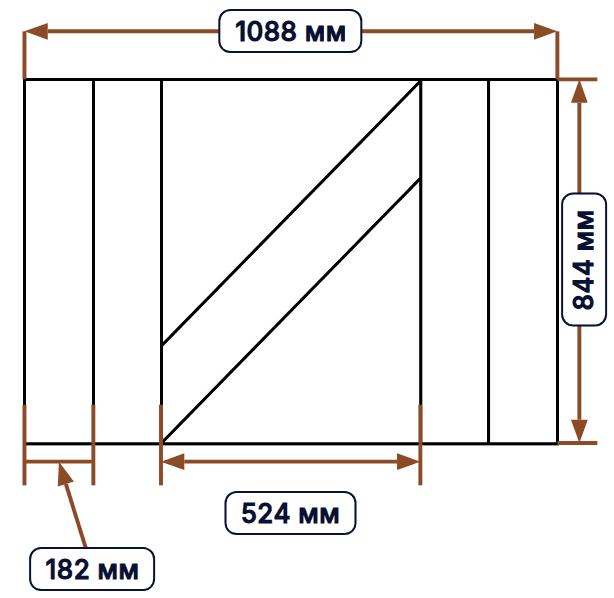
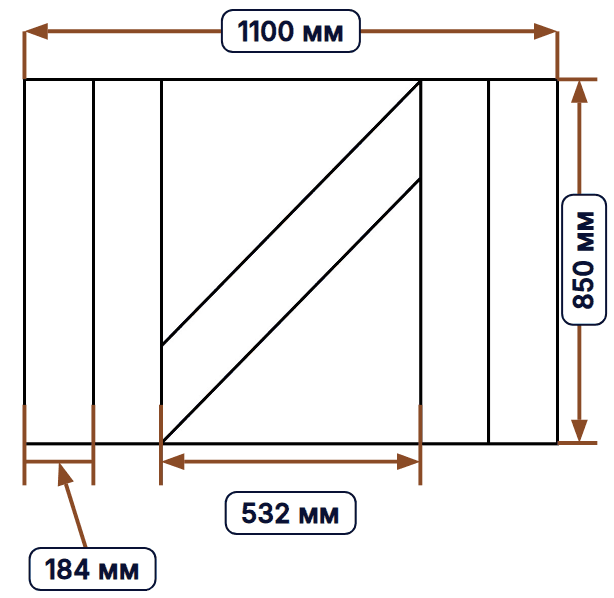
Ролик на главной: толщины 25, 40, 50, 100 и толще во всех примерах (пересчитано), третий пример I-3; в сравнении вручную - около 30 минут
Claude-Session: https://claude.ai/code/session_0168e5zpHgBWfiuPEqtVvNNU

diff --git a/frontend/public/js/landing.js b/frontend/public/js/landing.js
@@ -32,21 +32,19 @@ openSettingsSection = section => { location.href = 'gosts.html#' + section; };
 const LPD_SCENES = [
   {
     type: 'I-1', short: 'I-1', dims: [1000, 800, 600], mass: 300,
-    thick: [22, 25],
     opts: [['Полоз нужен', true, false], ['Округлить ширину досок', false, false], ['Добавить раскосины', false, true], ['X-образные раскосины', false, false]],
-    sum: ['1088 × 888 × 716', '0.130', '90.8', '2.2'],
+    sum: ['1100 × 900 × 725', '0.148', '103.4', '2.5'],
     image: '/images/box_i1.jpg',
     nodes: [
-      ['Дно', [['Полоз', 50, 100, 844, 2], ['Доска дна', 22, 100, 1088, 6], ['Доска дна (дополнительная) 1', 22, 81, 1088, 2], ['Доска дна (дополнительная) 2', 22, 82, 1088, 1], ['Раскосина', 22, 100, 993, 1]]],
-      ['Крышка', [['Планка', 22, 100, 888, 2], ['Доска крышки', 22, 100, 1088, 6], ['Доска крышки (дополнительная) 1', 22, 81, 1088, 2], ['Доска крышки (дополнительная) 2', 22, 82, 1088, 1], ['Раскосина', 22, 100, 1031, 1]]],
-      ['Щит торцевой (2 шт.)', [['Вертикальная планка', 22, 100, 600, 2], ['Горизонтальная планка', 22, 100, 600, 2], ['Доска торцевого щита', 22, 100, 800, 6], ['Раскосина', 22, 100, 566, 1]]],
-      ['Щит боковой (2 шт.)', [['Планка', 22, 100, 694, 2], ['Доска бокового щита', 22, 100, 1088, 6], ['Раскосина', 22, 100, 797, 1]]],
+      ['Дно', [['Полоз', 50, 100, 850, 2], ['Доска дна', 25, 100, 1100, 7], ['Доска дна (дополнительная)', 25, 75, 1100, 2], ['Раскосина', 25, 100, 1003, 1]]],
+      ['Крышка', [['Планка', 25, 100, 900, 2], ['Доска крышки', 25, 100, 1100, 7], ['Доска крышки (дополнительная)', 25, 75, 1100, 2], ['Раскосина', 25, 100, 1045, 1]]],
+      ['Щит торцевой (2 шт.)', [['Вертикальная планка', 25, 100, 600, 2], ['Горизонтальная планка', 25, 100, 600, 2], ['Доска торцевого щита', 25, 100, 800, 6], ['Раскосина', 25, 100, 566, 1]]],
+      ['Щит боковой (2 шт.)', [['Планка', 25, 100, 700, 2], ['Доска бокового щита', 25, 100, 1100, 6], ['Раскосина', 25, 100, 802, 1]]],
     ],
     finish: 'print',
   },
   {
     type: 'II-1', short: 'II-1', dims: [1600, 1000, 900], mass: 800,
-    thick: [25, 40, 50, 100],
     opts: [['Округлить ширину досок', false, true], ['Добавить раскосины', false, false], ['Погрузка авто/электропогрузчиком', false, true], ['Добавить пергамин', false, false]],
     sum: ['1700 × 1100 × 1115', '0.343', '240.4', '5.8'],
     image: '/images/box_ii1.png',
@@ -58,8 +56,26 @@ const LPD_SCENES = [
     ],
     finish: 'pdf',
   },
+  {
+    type: 'I-3', short: 'I-3', dims: [1200, 1000, 800], mass: 1000,
+    opts: [['Округлить ширину досок', false, false], ['X-образные раскосины', false, true], ['Погрузка авто/электропогрузчиком', false, true], ['Добавить ленту обшивки торцов', false, false]],
+    sum: ['1300 × 1100 × 1025', '0.258', '180.5', '4.3'],
+    image: '/images/box.png',
+    nodes: [
+      ['Дно', [['Полоз', 100, 100, 1300, 2], ['Подполозная доска', 50, 100, 900, 2], ['Торцовый брус дна', 50, 100, 1000, 2], ['Доска дна', 25, 100, 1000, 10]]],
+      ['Крышка', [['Планка', 25, 100, 1050, 2], ['Доска крышки', 25, 100, 1300, 9], ['Доска крышки (дополнительная)', 25, 75, 1300, 2], ['Внутренний поперечный брус', 40, 100, 1000, 2]]],
+      ['Щит торцевой (2 шт.)', [['Вертикальная планка', 25, 100, 625, 2], ['Горизонтальная планка', 25, 100, 1000, 2], ['Раскосина', 25, 100, 1015, 1], ['Раскосина (дополнительная)', 25, 100, 458, 2], ['Доска торца', 25, 100, 1000, 6], ['Доска торца (дополнительная)', 25, 75, 1000, 3]]],
+      ['Щит боковой (2 шт.)', [['Вертикальная планка', 25, 100, 892, 2], ['Доска бока', 25, 100, 1300, 6], ['Доска бока (дополнительная)', 25, 75, 1300, 3], ['Раскосина', 25, 100, 1126, 1], ['Раскосина (дополнительная)', 25, 100, 513, 2]]],
+    ],
+    finish: 'print',
+  },
 ];
-const LPD_THICK = [16, 19, 22, 25, 32, 40, 50, 60, 75, 100];
+// Толщины в наличии - во всех примерах одни (по указанию пользователя):
+// 25, 40, 50, 100 и все толще.
+const LPD_PICK = [25, 40, 50, 100, 125, 150, 175, 200, 225, 250];
+const LPD_THICK = [16, 19, 22, 25, 32, 40, 50, 60, 75, 100, 125, 150, 175, 200, 225, 250];
+// Подпись выпадающего списка - как на странице расчёта.
+const lpdPicked = list => `Выбрано (${list.length}): ${list.slice(0, 8).join(', ')} мм${list.length > 8 ? `, ещё ${list.length - 8} знач.` : ''}`;
 const LPD_W = 560, LPD_H = 400; // размер макета; на экране - масштаб по ширине
 
 // Чертёж узла n примера: images/landing/demo-<тип>-<n>.png.
@@ -109,7 +125,7 @@ function lpDemo(){
   fit();
   if(window.ResizeObserver) new ResizeObserver(fit).observe(box); else addEventListener('resize', fit);
 
-  scenes.innerHTML = LPD_SCENES.map((sc, i) => `<button type="button" role="tab" data-i="${i}"><span>Тип ${sc.short} · ${sc.dims.join('×')} мм · ${sc.mass} кг</span><i><u></u></i></button>`).join('');
+  scenes.innerHTML = LPD_SCENES.map((sc, i) => `<button type="button" role="tab" data-i="${i}"><span>Тип ${sc.short} · ${sc.dims.join('×')}</span><i><u></u></i></button>`).join('');
   const sceneBtns = [...scenes.children];
 
   // Прерывание: смена примера кнопкой - текущий сценарий останавливается.
@@ -181,8 +197,8 @@ function lpDemo(){
   const still = (i) => {
     const sc = setup(i);
     ['L', 'W', 'H', 'M'].forEach((k, n) => { q(`[data-f="${k}"] span`).textContent = n < 3 ? sc.dims[n] : sc.mass; });
-    page.querySelectorAll('.lpd-chip').forEach(c => c.classList.toggle('on', sc.thick.includes(+c.dataset.t)));
-    q('[data-sel] span').textContent = `Выбрано (${sc.thick.length}): ${sc.thick.join(', ')} мм`;
+    page.querySelectorAll('.lpd-chip').forEach(c => c.classList.toggle('on', LPD_PICK.includes(+c.dataset.t)));
+    q('[data-sel] span').textContent = lpdPicked(LPD_PICK);
     sc.opts.forEach(([, , tick], n) => { if(tick) q(`[data-o="${n}"]`).classList.add('on'); });
     q('[data-status]').classList.add('on');
     page.querySelectorAll('.lpd-result').forEach(r => r.classList.add('on'));
@@ -208,10 +224,10 @@ function lpDemo(){
     await move(sel, tk); await click(tk, sel);
     q('[data-chips]').classList.add('open');
     await sleep(250, tk);
-    for(const t of sc.thick){
+    for(const [n, t] of LPD_PICK.entries()){
       const chip = q(`.lpd-chip[data-t="${t}"]`);
-      await move(chip, tk, 380); await click(tk); chip.classList.add('on');
-      q('[data-sel] span').textContent = `Выбрано (${sc.thick.indexOf(t) + 1}): ${sc.thick.slice(0, sc.thick.indexOf(t) + 1).join(', ')} мм`;
+      await move(chip, tk, n ? 230 : 450); await click(tk); chip.classList.add('on');
+      q('[data-sel] span').textContent = lpdPicked(LPD_PICK.slice(0, n + 1));
     }
     await sleep(250, tk);
     q('[data-chips]').classList.remove('open');

diff --git a/frontend/public/css/landing.css b/frontend/public/css/landing.css
@@ -45,9 +45,9 @@
 .lpd-select.pressed{border-color:var(--accent);}
 .lpd-select i{font-style:normal;font-size:9px;}
 .lpd-chips{display:flex;flex-wrap:wrap;gap:6px;max-height:0;overflow:hidden;opacity:0;transition:max-height .3s ease, opacity .25s ease, margin .3s ease;}
-.lpd-chips.open{max-height:80px;opacity:1;margin-top:8px;}
+.lpd-chips.open{max-height:110px;opacity:1;margin-top:8px;}
 .lpd-chip, .lpd-opt{display:inline-flex;align-items:center;gap:6px;}
-.lpd-chip{padding:4px 8px;border:1px solid var(--rule);border-radius:6px;font-weight:500;}
+.lpd-chip{padding:3px 7px;border:1px solid var(--rule);border-radius:6px;font-weight:500;}
 .lpd-chip b, .lpd-opt b{width:11px;height:11px;border:1.5px solid var(--border-btn);border-radius:3px;box-sizing:border-box;flex:none;position:relative;transition:background .15s, border-color .15s;}
 .lpd-chip.on b, .lpd-opt.on b{background:var(--accent);border-color:var(--accent);}
 .lpd-chip.on b::after, .lpd-opt.on b::after{content:'';position:absolute;left:3px;top:0;width:3px;height:6px;border:solid #fff;border-width:0 1.5px 1.5px 0;transform:rotate(45deg);}
@@ -113,7 +113,7 @@
 .lpd-scenes{display:flex;gap:8px;margin-top:12px;}
 .lpd-scenes button{flex:1;min-width:0;text-align:left;padding:8px 10px;border-radius:10px;border:1px solid var(--rule);background:var(--panel);color:var(--ink-soft);font:inherit;font-size:12px;font-weight:600;cursor:pointer;}
 .lpd-scenes button.on{color:var(--ink);border-color:var(--accent);}
-.lpd-scenes span{display:block;white-space:nowrap;overflow:hidden;text-overflow:ellipsis;}
+.lpd-scenes span{display:block;}
 .lpd-scenes i{display:block;height:3px;border-radius:2px;background:var(--rule);margin-top:6px;overflow:hidden;}
 .lpd-scenes u{display:block;height:100%;width:0;background:var(--accent);transition:width .6s ease;}
 
@@ -191,7 +191,6 @@ a.lp-type:hover{border-color:var(--accent);transform:translateY(-2px);}
 }
 @media screen and (max-width:640px){
   .lp-hero-art{padding:12px;border-radius:18px;}
-  .lpd-scenes span{white-space:normal;}
   .lp-title{font-size:36px;}
   .lp-lead{font-size:16px;}
   .lp-cards-3, .lp-plans{grid-template-columns:1fr;}

diff --git a/frontend/public/index.html b/frontend/public/index.html
@@ -88,7 +88,7 @@
       <table class="lp-compare">
         <thead><tr><th></th><th class="lp-us">Тара+</th><th>Свои таблицы Excel</th><th>Чертёж в САПР</th><th>Вручную по ГОСТ</th></tr></thead>
         <tbody>
-          <tr><td>Время на один ящик</td><td class="lp-us"><i class="lp-yes"></i>около минуты</td><td>быстро, если файл настроен под этот тип</td><td>часы работы чертёжника</td><td>часы</td></tr>
+          <tr><td>Время на один ящик</td><td class="lp-us"><i class="lp-yes"></i>около минуты</td><td>быстро, если файл настроен под этот тип</td><td>часы работы чертёжника</td><td>около 30 минут</td></tr>
           <tr><td>Что на выходе</td><td class="lp-us"><i class="lp-yes"></i>детали, чертежи узлов, объём, масса и нормы времени сразу</td><td>только то, что заложено в файл</td><td>чертёж, остальное отдельно</td><td>всё по отдельности</td></tr>
           <tr><td>Гибкие настройки расчёта</td><td class="lp-us"><i class="lp-yes"></i>толщины в наличии, раскосины, тонкая настройка и многое другое</td><td>почти нет</td><td>всё вручную</td><td>всё вручную</td></tr>
           <tr><td>Создать такой инструмент самим</td><td class="lp-us"><i class="lp-yes"></i>уже готов</td><td>очень сложно сделать настолько же точным</td><td>долго и дорого</td><td>-</td></tr>
